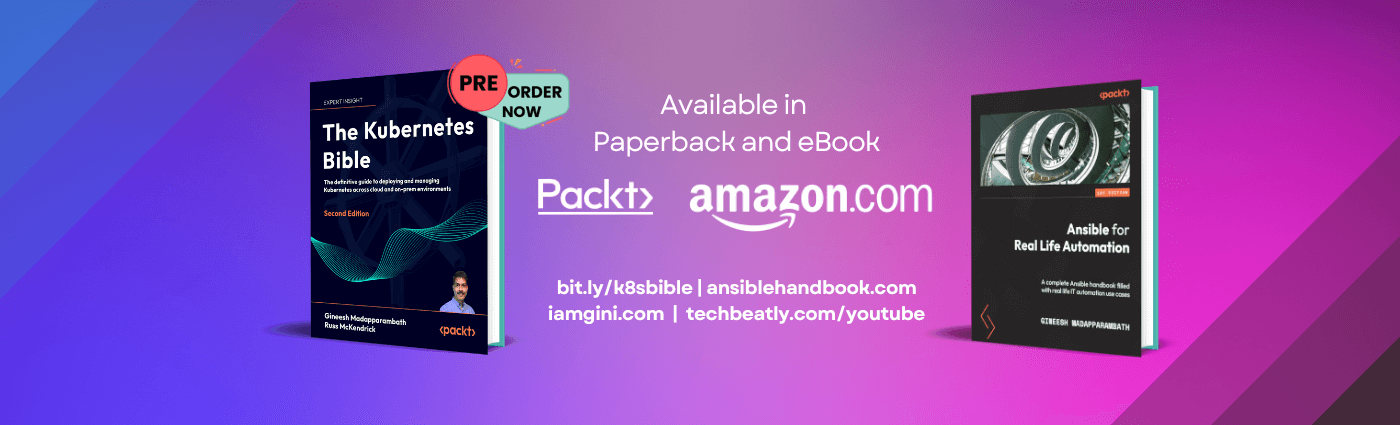
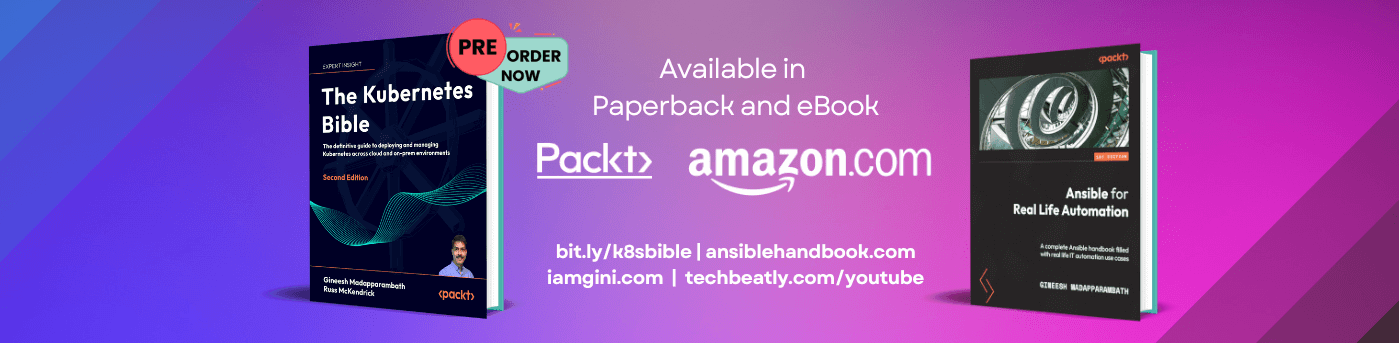
update

diff --git a/assets/css/main.css b/assets/css/main.css
@@ -5216,7 +5216,7 @@ button.bg-orange:focus {
 
 .header-background {
   background-size: contain;
-	background-image: url("bg-2024.png");
+	background-image: url("bg-2024-v2.png");
 	background-position: center top;
   background-repeat: no-repeat;
 }
